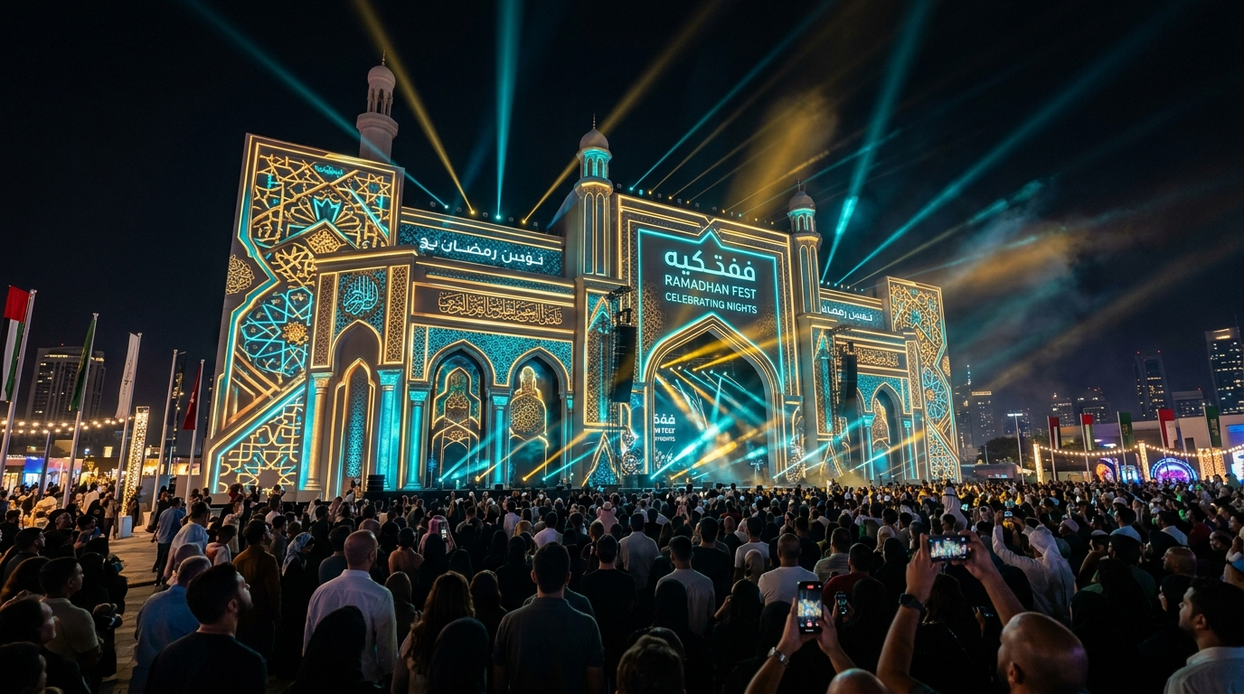
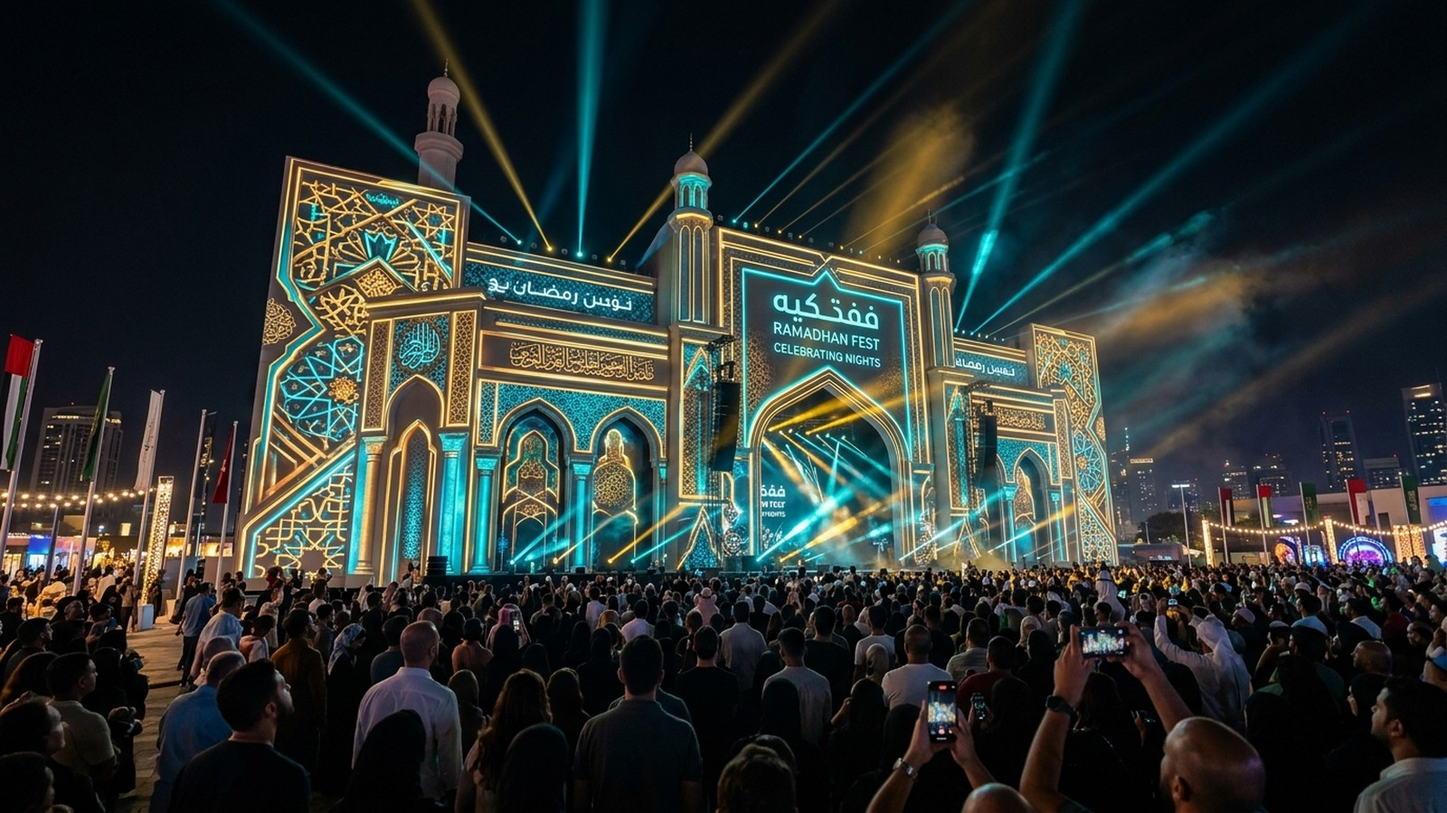
feat(portfolio): perbarui JABAT 3, generate cover Grand Doorprize, pisahkan Perpustakaan Expo 2023 & Festival Literasi 2025/2026, serta sesuaikan FAKKIE Ramadhan Fest

Changed region(s): [[0.5625, 0.4375, 0.5938, 0.4688], [0.5312, 0.3125, 0.5625, 0.3438], [0.4062, 0.4375, 0.4375, 0.4688]]

diff --git a/src/data/initialData.ts b/src/data/initialData.ts
@@ -469,18 +469,34 @@ export const initialProjects: Project[] = [
     summary: "Aplikasi animasi pengundian door-prize panggung real-time beresolusi tinggi dengan algoritma angka acak kriptografis transparan untuk event akbar dan siaran langsung.",
     clientDisplayName: "Penyelenggara Event & Media Partner",
     year: "2025 - 2026",
-    heroImage: "/portfolio/undian-desktop.webp",
-    thumbnail: "/portfolio/undian-desktop.webp",
+    heroImage: "/portfolio/covers/grand-doorprize-stage-system-cover-1600x900.webp",
+    thumbnail: "/portfolio/covers/grand-doorprize-stage-system-cover-1600x900.webp",
     mobileImage: "/portfolio/undian-mobile.webp",
-    services: ["Stage Visual Software", "Cryptographic Randomizer", "Ultra-Wide Screen Optimization", "Live Event Engineering"],
+    role: "Aplikasi Undian Kriptografis Layar Lebar",
+    sourceCredit: "Arsip Teknologi Panggung & Rekayasa Perangkat Lunak MAROA",
+    rightsStatus: "Karya Sistem & Visual Panggung Orisinal MAROA",
+    services: [
+      "Stage Visual Software",
+      "Cryptographic Randomizer",
+      "Ultra-Wide Screen Optimization",
+      "Live Event Engineering"
+    ],
     challenge: "Menyelenggarakan sesi penarikan door-prize berhadiah mobil, motor, dan ratusan hadiah elektronik pada event berskala ribuan peserta yang menuntut keadilan mutlak, transparansi tanpa kecurigaan manipulasi, serta visualisasi panggung yang dramatis dan mendebarkan.",
     approach: "Mengembangkan aplikasi web stage-ready dengan engine randomizer angka acak berbasis kriptografi yang menghasilkan animasi putaran angka berkecepatan tinggi dengan efek pendaran cahaya (glow effect) yang memukau di layar videotron LED panggung utama.",
     execution: "Membangun panel manajemen hadiah berjenjang (Grand Prize Mobil, Motor, Elektronik); sistem import basis data nomor kupon/peserta; panel kontrol tombol operator (Mulai Undian, Kunci Pemenang); filter pencegahan dobel menang; serta modul export rekapitulasi Berita Acara resmi.",
     outcome: "Menghidupkan atmosfer kemeriahan puncak event, memikat ribuan tatap mata penonton di depan panggung tanpa keraguan kecurangan, dan mempermudah saksi notaris serta kepolisian menandatangani keabsahan undian.",
     gallery: [
+      "/portfolio/covers/grand-doorprize-stage-system-cover-1600x900.webp",
+      "/portfolio/gallery/grand-doorprize-stage-system-1600x900.webp",
       "/portfolio/undian-desktop.webp",
       "/portfolio/undian-mobile.webp"
     ],
+    galleryCaptions: {
+      "/portfolio/covers/grand-doorprize-stage-system-cover-1600x900.webp": "Visualisasi Panggung — Display Sistem Undian Layar Lengkung Videotron LED",
+      "/portfolio/gallery/grand-doorprize-stage-system-1600x900.webp": "Visual Panggung Resolusi Tinggi — Animasi Pengundian Grand Prize",
+      "/portfolio/undian-desktop.webp": "Antarmuka Dashboard Operator — Panel Kendali Pengundian Kriptografis",
+      "/portfolio/undian-mobile.webp": "Antarmuka Responsif Mobile — Verifikasi Nomor Kupon Pemenang"
+    },
     metrics: [
       { label: "Algoritma Acak", value: "100% Kripto Adil" },
       { label: "Output Tampilan", value: "Videotron Ultra-Wide LED" },
@@ -696,85 +712,197 @@ export const initialProjects: Project[] = [
   },
   {
     id: "perpustakaan-expo-pinrang",
-    slug: "perpustakaan-expo-festival-literasi-pinrang-event-organizer",
-    title: "Perpustakaan Expo & Festival Literasi Pinrang — Manajemen Penyelenggaraan Event Organizer (EO) & Ekosistem Edukasi Publik",
+    slug: "perpustakaan-expo-2023-kabupaten-pinrang",
+    title: "Perpustakaan Expo 2023 Kabupaten Pinrang — Pameran Literasi & Grand Final Duta Baca",
     category: "events",
-    summary: "Manajemen acara terpadu (Event Organizer) festival literasi daerah mencakup kurasi panggung outdoor, stan pameran interaktif sekolah, talkshow kepenulisan, dan aktivasi ekonomi kreatif di Lasinrang Park.",
+    summary: "Penyelenggaraan pameran perpustakaan terpadu, Grand Final Duta Baca Kabupaten Pinrang, cerdas cermat, stand pameran terbaik, dan pentas seni budaya di Halaman Kantor Dinas Perpustakaan dan Kearsipan.",
     clientDisplayName: "Dinas Perpustakaan dan Kearsipan Kabupaten Pinrang",
-    year: "2026",
-    heroImage: "/portfolio/events/perpustakaan-expo.jpg",
-    thumbnail: "/portfolio/events/perpustakaan-expo.jpg",
+    year: "2023",
+    heroImage: "/portfolio/covers/perpustakaan-expo-pinrang-2023-cover-1600x900.webp",
+    thumbnail: "/portfolio/covers/perpustakaan-expo-pinrang-2023-cover-1600x900.webp",
+    role: "Event Organizer, Tata Panggung Pameran & Stan Pustaka",
+    sourceCredit: "Dinas Perpustakaan dan Kearsipan Kabupaten Pinrang",
+    rightsStatus: "Dokumentasi Publikasi Resmi Pemerintah Daerah",
     services: [
       "Manajemen Event Organizer (EO) Terpadu",
-      "Spatial & Exhibition Booth Layout",
-      "Tata Panggung Utama Outdoor & Videotron",
-      "Kurasi Pengisi Acara & Rundown Multi-Hari",
-      "Dokumentasi & Live Media Production"
+      "Tata Panggung & Stand Pameran",
+      "Lomba Grand Final Duta Baca",
+      "Pentas Seni Budaya & Pameran UMKM"
     ],
-    challenge: "Mengubah persepsi konvensional tentang perpustakaan menjadi festival publik terbuka yang berjiwa muda, interaktif, dan inklusif di Lasinrang Park dengan puluhan tenant sekolah, penerbit, komunitas seni, dan UMKM dalam rangkaian kegiatan multi-hari menyambut HUT RI.",
-    approach: "Mengadopsi model festival kota modern dengan membagi ruang menjadi Literacy Main Stage, Modular Exhibition Booths, Interactive Creative Workshop Corner, dan Local Culinary Area yang tertata higienis dan nyaman.",
-    execution: "Mengelola perizinan dan tata kelola massa, konstruksi panggung beratap melengkung dengan layar LED videotron interaktif, tata pencahayaan hangat senja hingga malam, serta manajemen acara talkshow bedah buku dan lomba mendongeng anak.",
-    outcome: "Menarik ribuan pelajar, pegiat literasi, pendidik, dan masyarakat umum, meningkatkan keterlibatan publik terhadap fasilitas perpustakaan daerah, serta membuka ruang promosi yang sukses bagi UMKM lokal.",
+    challenge: "Menata pameran literasi multi-kegiatan di halaman kantor dinas dengan menyatukan lomba kecerdasan pelajar, pameran buku, seleksi duta baca daerah, dan panggung pertunjukan dalam satu kesatuan alur yang rapi.",
+    approach: "Merancang zonasi panggung utama semi-outdoor, stan modular pameran perpustakaan sekolah/kecamatan, dan area bazar UMKM dengan alur kunjungan terstruktur.",
+    execution: "Menyiapkan instalasi panggung penghargaan, sistem tata suara, backdrop panggung resmi, dan tata kelola rundown acara selama 6 hari pelaksanaan (14-19 November 2023).",
+    outcome: "Perpustakaan Expo 2023 sukses besar menggerakkan antusiasme pelajar dan masyarakat, serta melahirkan Duta Baca inspiratif bagi Kabupaten Pinrang.",
     gallery: [
-      "/portfolio/events/perpustakaan-expo.jpg",
-      "/portfolio/events/tpn-guru-belajar.png"
+      "/portfolio/covers/perpustakaan-expo-pinrang-2023-cover-1600x900.webp",
+      "/portfolio/gallery/perpustakaan-expo-pinrang-2023-poster-1600x900.webp"
     ],
+    galleryCaptions: {
+      "/portfolio/covers/perpustakaan-expo-pinrang-2023-cover-1600x900.webp": "Master Artwork Poster 16:9 — Perpustakaan Expo 2023 Kabupaten Pinrang",
+      "/portfolio/gallery/perpustakaan-expo-pinrang-2023-poster-1600x900.webp": "Poster Resmi Informasi Acara — Pameran Perpustakaan & Grand Final Duta Baca"
+    },
     metrics: [
-      { label: "Durasi Festival", value: "5 Hari Pelaksanaan" },
-      { label: "Lokasi", value: "Lasinrang Park Pinrang" },
-      { label: "Keterlibatan", value: "Sekolah, Komunitas & UMKM" }
+      { label: "Peran MAROA", value: "Event Organizer & Stage" },
+      { label: "Waktu Acara", value: "14 - 19 November 2023" },
+      { label: "Lokasi", value: "Halaman Dinas Perpustakaan" }
     ],
     features: [
       {
-        title: "Perencanaan & Eksekusi Lapangan Menyeluruh",
-        description: "Pengendalian alur acara terstruktur mulai dari opening ceremony resmi, rundown teknis pengisi panggung, hingga evaluasi harian tim EO.",
+        title: "Pameran Perpustakaan Sekolah & Kecamatan",
+        description: "Menghadirkan stan pameran inovasi layanan buku dan pojok baca dari berbagai lembaga pendidikan.",
       },
       {
-        title: "Konstruksi Panggung Utama Berlayar Videotron Lengkung",
-        description: "Panggung outdoor megah dengan videotron LED melengkung (curved display) menampilkan konten edukasi ramah anak.",
+        title: "Grand Final Pemilihan Duta Baca Pinrang",
+        description: "Panggung unjuk bakat, orasi literasi, dan penobatan Duta Baca Kabupaten Pinrang 2023.",
       },
       {
-        title: "Tata Kelola Stan Pameran Sekolah & Penerbit",
-        description: "Penyusunan stan pameran modular bertema kayu hangat dan pencahayaan estetik untuk menampilkan karya literasi unggulan siswa.",
+        title: "Pentas Seni Tradisional & Pameran UMKM",
+        description: "Aktivasi panggung pentas seni pelajar serta pemberdayaan produk kuliner UMKM lokal.",
+      }
+    ],
+    isFeatured: false,
+    isPublished: true,
+    publishedAt: "2023-11-19",
+    seoTitle: "Perpustakaan Expo 2023 Kabupaten Pinrang — Event Organizer | MAROA",
+    seoDescription: "Penyelenggaraan Perpustakaan Expo 2023 dan Grand Final Duta Baca Kabupaten Pinrang oleh MAROA.",
+  },
+  {
+    id: "festival-literasi-pinrang-2025",
+    slug: "festival-literasi-pinrang-2025-multiliterasi-inklusif",
+    title: "Festival Literasi Pinrang 2025 — Multiliterasi Inklusif & Panggung Edukasi Budaya",
+    category: "events",
+    summary: "Penyelenggaraan festival literasi daerah berskala besar bekerjasama dengan Perpustakaan Nasional RI bertema 'Multiliterasi Inklusif, Bergerak Bersama Membangun Pinrang Berbudaya'.",
+    clientDisplayName: "Dinas Perpustakaan dan Kearsipan Kab. Pinrang & Perpusnas RI",
+    year: "2025",
+    heroImage: "/portfolio/covers/festival-literasi-pinrang-2025-cover-1600x900.webp",
+    thumbnail: "/portfolio/covers/festival-literasi-pinrang-2025-cover-1600x900.webp",
+    role: "Manajemen Acara & Tata Multimedia Panggung",
+    sourceCredit: "Dinas Perpustakaan dan Kearsipan Kabupaten Pinrang & Perpusnas RI",
+    rightsStatus: "Dokumentasi & Desain Publikasi Resmi Acara",
+    services: [
+      "Event Management & Production",
+      "Stage Multimedia Screen",
+      "Perpusnas RI Collaboration",
+      "Cultural & Literacy Showcase"
+    ],
+    challenge: "Menghadirkan festival literasi komprehensif yang mengintegrasikan agenda nasional Perpustakaan Nasional RI dengan pelestarian budaya lokal Bumi Lasinrang.",
+    approach: "Memadukan visual panggung bertema arsitektur budaya Pinrang, instalasi perpustakaan keliling, dan seminar multiliterasi bagi lintas generasi.",
+    execution: "Menyiapkan panggung utama, multimedia display siaran langsung, sesi gelar wicara bersama Bunda Literasi, dan malam penganugerahan pegiat literasi daerah.",
+    outcome: "Memperkuat indeks pembangunan literasi masyarakat (IPLM) Kabupaten Pinrang dan mendapat apresiasi pimpinan Perpustakaan Nasional.",
+    gallery: [
+      "/portfolio/covers/festival-literasi-pinrang-2025-cover-1600x900.webp",
+      "/portfolio/gallery/festival-literasi-pinrang-2025-banner-1600x900.webp"
+    ],
+    galleryCaptions: {
+      "/portfolio/covers/festival-literasi-pinrang-2025-cover-1600x900.webp": "Master Visual 16:9 — Festival Literasi Pinrang 2025 Multiliterasi Inklusif",
+      "/portfolio/gallery/festival-literasi-pinrang-2025-banner-1600x900.webp": "Banner Resmi Penyelenggaraan — Kerjasama Dispusip Pinrang & Perpusnas RI"
+    },
+    metrics: [
+      { label: "Peran MAROA", value: "Event Management & Multimedia" },
+      { label: "Waktu Acara", value: "10 - 14 September 2025" },
+      { label: "Kemitraan", value: "Perpustakaan Nasional RI" }
+    ],
+    features: [
+      {
+        title: "Seminar Multiliterasi Inklusif Nasional",
+        description: "Diskusi panel bersama narasumber Perpustakaan Nasional RI dan tokoh literasi Sulawesi Selatan.",
       },
       {
-        title: "Manajemen Talkshow Inspiratif & Bedah Buku",
-        description: "Fasilitasi sesi diskusi bersama penulis nasional, tokoh literasi perempuan, dan praktisi pendidikan daerah.",
-      },
-      {
-        title: "Pemberdayaan Area Kuliner & UMKM Kreatif",
-        description: "Penataan stan makanan dan kerajinan khas Pinrang guna mendukung perputaran ekonomi kreatif selama festival berlangsung.",
-      },
+        title: "Panggung Apresiasi Pegiat Literasi",
+        description: "Penghargaan bagi pengelola pojok baca desa, taman bacaan masyarakat, dan pegiat literasi disabilitas.",
+      }
     ],
     isFeatured: true,
     isPublished: true,
-    publishedAt: "2026-08-11",
-    seoTitle: "Perpustakaan Expo & Festival Literasi Pinrang — Event Organizer | MAROA",
-    seoDescription: "Penyelenggaraan terpadu Event Organizer Perpustakaan Expo dan Festival Literasi Kabupaten Pinrang oleh MAROA.",
+    publishedAt: "2025-09-14",
+    seoTitle: "Festival Literasi Pinrang 2025 — Multiliterasi Inklusif | MAROA",
+    seoDescription: "Penyelenggaraan Festival Literasi Pinrang 2025 kerjasama Perpustakaan Nasional RI oleh MAROA.",
+  },
+  {
+    id: "festival-literasi-pinrang-2026",
+    slug: "festival-literasi-pinrang-2026-lasinrang-merdeka-fest",
+    title: "Festival Literasi Pinrang 2026 — Lasinrang Merdeka Fest (HUT Ke-81 RI)",
+    category: "events",
+    summary: "Manajemen festival literasi ruang publik Lasinrang Merdeka Fest bertema 'Literasi Menggerakkan, Seni Menyatukan, UMKM Menguatkan' dalam rangka Pekan Festival HUT Ke-81 Kemerdekaan RI di Lasinrang Park.",
+    clientDisplayName: "Dinas Perpustakaan dan Kearsipan Kabupaten Pinrang",
+    year: "2026",
+    heroImage: "/portfolio/covers/festival-literasi-pinrang-2026-cover-1600x900.webp",
+    thumbnail: "/portfolio/covers/festival-literasi-pinrang-2026-cover-1600x900.webp",
+    role: "Event Organizer, Panggung Seni Videotron & Visual Branding",
+    sourceCredit: "Dinas Perpustakaan dan Kearsipan Kabupaten Pinrang",
+    rightsStatus: "Arsip Kreatif & Manajemen Acara MAROA",
+    services: [
+      "Event Organizer (EO) Terpadu",
+      "Stage Videotron & Lighting",
+      "Lasinrang Merdeka Fest Branding",
+      "UMKM & Creative Booth Activation"
+    ],
+    challenge: "Mentransformasikan ruang terbuka hijau Lasinrang Park menjadi episentrum festival kemerdekaan yang memadukan buku, pentas seni, dan bazaar UMKM kuliner kreatif secara berdaya saing tinggi.",
+    approach: "Merancang visual branding ikonik pejuang Lasinrang memegang buku diapit bendera pusaka, dipadu panggung konser seni terbuka dan tata cahaya malam hari.",
+    execution: "Menyelenggarakan rangkaian festival 5 hari (11-15 Agustus 2026), mengoperasikan videotron panggung seni budaya, dan memfasilitasi puluhan stan UMKM.",
+    outcome: "Menjadi magnet perayaan HUT RI ke-81 terfavorit di Kabupaten Pinrang dengan puluhan ribu kunjungan warga dari berbagai daerah.",
+    gallery: [
+      "/portfolio/covers/festival-literasi-pinrang-2026-cover-1600x900.webp",
+      "/portfolio/gallery/festival-literasi-pinrang-2026-banner-1600x900.webp"
+    ],
+    galleryCaptions: {
+      "/portfolio/covers/festival-literasi-pinrang-2026-cover-1600x900.webp": "Master Visual 16:9 — Lasinrang Merdeka Fest Festival Literasi 2026",
+      "/portfolio/gallery/festival-literasi-pinrang-2026-banner-1600x900.webp": "Identitas Resmi Acara — Lambang Lasinrang Merdeka Fest HUT Ke-81 RI"
+    },
+    metrics: [
+      { label: "Peran MAROA", value: "Event Organizer & Videotron" },
+      { label: "Waktu Acara", value: "11 - 15 Agustus 2026" },
+      { label: "Lokasi", value: "Lasinrang Park, Pinrang" }
+    ],
+    features: [
+      {
+        title: "Pentas Seni Terbuka Lasinrang Merdeka Fest",
+        description: "Panggung musik, tari kolosal kemerdekaan, dan teater literasi siswa di bawah langit malam kota.",
+      },
+      {
+        title: "Ekosistem Pemberdayaan UMKM Pinrang",
+        description: "Zonasi puluhan tenant kuliner dan cinderamata kreatif lokal yang tertata rapi dan ramai pengunjung.",
+      }
+    ],
+    isFeatured: true,
+    isPublished: true,
+    publishedAt: "2026-08-15",
+    seoTitle: "Festival Literasi Pinrang 2026 — Lasinrang Merdeka Fest | MAROA",
+    seoDescription: "Penyelenggaraan Lasinrang Merdeka Fest Festival Literasi Pinrang 2026 di Lasinrang Park oleh MAROA.",
   },
   {
     id: "fakkie-ramadhan-fest",
     slug: "fakkie-ramadhan-fest-multimedia-video-mapping",
-    title: "FAKKIE Ramadhan Fest — Produksi Konten Desain Multimedia Panggung & Video Mapping Arsitektural Religi",
+    title: "FAKKIE Ramadhan Fest 2026 — Desain Multimedia, Panggung Seni & Video Mapping Arsitektural",
     category: "multimedia",
-    summary: "Penerapan proyeksi video mapping 3D berarsitektur Islami dan konten multimedia panggung pada festival semarak Ramadan dan festival seni musik patrol kebanggaan masyarakat Tiroang.",
-    clientDisplayName: "Panitia FAKKIE Ramadhan Fest & Karang Taruna Kelurahan Fakkie",
+    summary: "Produksi materi komunikasi visual promosi opening ceremony, bintang tamu MC, serta proyeksi video mapping arsitektural 3D religi pada festival patrol sahur FAKKIE Ramadhan Fest by Eighty Seven.",
+    clientDisplayName: "Panitia FAKKIE Ramadhan Fest by Eighty Seven & Pemuda Alecalimpo",
     year: "2026",
-    heroImage: "/portfolio/events/fakkie-video-mapping.jpg",
-    thumbnail: "/portfolio/events/fakkie-video-mapping.jpg",
+    heroImage: "/portfolio/covers/fakkie-ramadhan-fest-2026-cover-1600x900.webp",
+    thumbnail: "/portfolio/covers/fakkie-ramadhan-fest-2026-cover-1600x900.webp",
+    role: "Desain Multimedia, Video Mapping 3D & Visual Panggung",
+    sourceCredit: "Panitia FAKKIE Ramadhan Fest by Eighty Seven & Studio MAROA",
+    rightsStatus: "Karya Desain Poster & Dokumentasi Video Mapping MAROA",
     services: [
       "Arsitektural Video Mapping 3D",
-      "Produksi Konten Multimedia Panggung",
-      "Synchronized Light & Sound System",
-      "Desain Visual Panggung Seni Musik Patrol"
+      "Opening Ceremony Key Visual Design",
+      "Guest Star MC Promo Assets",
+      "Synchronized Stage Light & Sound System"
     ],
-    challenge: "Membawa tradisi seni patrol sahur masyarakat Tiroang ke panggung pertunjukan modern yang spektakuler tanpa mengaburkan kesakralan, kekhusyukan, dan kehangatan nilai-nilai bulan suci Ramadan.",
-    approach: "Menerapkan teknologi proyeksi video mapping arsitektural 3D pada fasad panggung utama festival, memadukan ornamen kaligrafi geometri Islam modern, pendaran laser emas-toska, dan ketukan perkusi patrol khas Sulawesi Selatan.",
-    execution: "Melakukan pemetaan proyeksi permukaan 3D (surface mapping) pada panggung gerbang menara, memprogram animasi transisi cahaya yang tersinkronisasi dengan tabuhan perkusi kelompok patrol, serta memandu operator multimedia selama malam puncak perayaan.",
-    outcome: "Menjadi suguhan pertunjukan yang sangat viral dan spektakuler di media sosial lokal, dihadiri ribuan warga dari berbagai kecamatan, dan menorehkan standar baru pemanfaatan teknologi video mapping untuk event religi berbasis komunitas di Pinrang.",
+    challenge: "Menggabungkan tradisi seni musik patrol sahur masyarakat Tiroang dengan suguhan visual panggung modern yang megah, menampilkan bintang tamu MC kondang, serta atraksi video mapping arsitektural di depan Masjid Mustaqim.",
+    approach: "Merancang paket desain grafis promosi pembuka berwarna merah membara yang energetik, dipadu pemetaan proyeksi 3D (video mapping) pada fasad bangunan panggung pementasan.",
+    execution: "Membuat master poster 16:9 non-destruktif penayangan opening ceremony 26 Februari 2026 dan memproyeksikan video mapping 3D animasi kaligrafi yang tersinkronisasi dengan tabuhan perkusi patrol Bentrok Family.",
+    outcome: "Malam pembukaan festival dipadati ribuan warga, viral di media sosial, dan menorehkan standar baru pertunjukan religi berbasis komunitas di Sulawesi Selatan.",
     gallery: [
-      "/portfolio/events/fakkie-video-mapping.jpg"
+      "/portfolio/covers/fakkie-ramadhan-fest-2026-cover-1600x900.webp",
+      "/portfolio/gallery/fakkie-ramadhan-fest-live-video-mapping-1600x900.webp",
+      "/portfolio/gallery/fakkie-ramadhan-fest-2026-poster-1600x900.webp"
     ],
+    galleryCaptions: {
+      "/portfolio/covers/fakkie-ramadhan-fest-2026-cover-1600x900.webp": "Master Artwork Poster 16:9 — Opening Ceremony FAKKIE Ramadhan Fest 2026",
+      "/portfolio/gallery/fakkie-ramadhan-fest-live-video-mapping-1600x900.webp": "Dokumentasi Lapangan — Proyeksi Video Mapping Arsitektural 3D Religi di Panggung Utama",
+      "/portfolio/gallery/fakkie-ramadhan-fest-2026-poster-1600x900.webp": "Materi Publikasi Resmi — Bintang Tamu MC Syukri Gazali (Chuke) & Syaiful Muharram (Ambonai)"
+    },
     metrics: [
       { label: "Teknologi Visual", value: "3D Projection Mapping" },
       { label: "Peserta Lomba", value: "Puluhan Grup Patrol" },
@@ -926,30 +1054,38 @@ export const initialProjects: Project[] = [
   {
     id: "jabat-3-trail-adventure",
     slug: "jabat-3-jelajah-alam-batas-produksi-konten-desain-multimedia",
-    title: "Jelajah Alam Batas (JABAT 3) Pinrang–Enrekang — Produksi Konten Desain Multimedia & Stage Visual Extreme Sport",
+    title: "Reborn Trail Pinrang JABAT Part #3 — Motion Graphic & LED Videotron Extreme Sport",
     category: "multimedia",
-    summary: "Produksi konten visual panggung gerbang start-finish, motion graphics countdown ekstrem, dan multimedia malam apresiasi untuk ajang trail adventure akbar perbatasan Pinrang - Enrekang.",
-    clientDisplayName: "Panitia JABAT 3 & Komunitas Trail Adventure Indonesia",
+    summary: "Produksi motion graphic visual panggung, operasional layar LED videotron gerbang start-finish Stadion Bau Massepe, dan multimedia panggung malam apresiasi One Day Trail Adventure Jelajah Alam Batas (JABAT Part #3) Pinrang–Enrekang.",
+    clientDisplayName: "Panitia Reborn Trail Pinrang JABAT Part #3 & IMI Pengcab Pinrang",
     year: "2026",
-    heroImage: "/portfolio/events/tyro1-wgb.jpg",
-    thumbnail: "/portfolio/events/tyro1-wgb.jpg",
+    heroImage: "/portfolio/covers/jabat-3-trail-adventure-2026-cover-1600x900.webp",
+    thumbnail: "/portfolio/covers/jabat-3-trail-adventure-2026-cover-1600x900.webp",
+    role: "Motion Graphic dan LED Videotron",
+    sourceCredit: "Panitia Reborn Trail Pinrang JABAT Part #3 & IMI Pengcab Pinrang",
+    rightsStatus: "Karya Desain Motion & Dokumentasi Resmi JABAT 3",
     services: [
-      "Produksi Konten Desain Multimedia",
-      "Stage Visual Extreme Sport",
-      "Opening Countdown Motion Graphics",
-      "Visual Identity Gerbang Start & Finish"
+      "Motion Graphics Design",
+      "LED Videotron Stage Display",
+      "Extreme Sport Visual Production",
+      "Start-Finish Gate Multimedia"
     ],
-    challenge: "Menciptakan atmosfer panggung dan visual sirkuit yang memacu adrenalin bagi ribuan peserta offroad dari berbagai provinsi yang melintasi jalur ekstrem perbukitan batas Pinrang-Enrekang.",
-    approach: "Mengusung estetika visual bertema rugged adventure dan industrial grunge yang tangguh, memadukan elemen topografi pegunungan, semburan lumpur, dan visual maskot adventure berani.",
-    execution: "Memproduksi animasi hitung mundur pelepasan rider pada layar LED panggung gerbang start, visual live entertainment panggung malam apresiasi, serta branding visual trofi dan seragam kejuaraan.",
-    outcome: "Event JABAT 3 tampil sangat berkelas dan terorganisir rapi secara visual, mendapat sambutan luar biasa dari ribuan rider nasional dan apresiasi pemerintah daerah setempat.",
+    challenge: "Menghadirkan tata visual dinamis dan operasional layar videotron luar ruang berkontras tinggi di Stadion Bau Massepe yang mampu memandu pelepasan ribuan offroader serta menayangkan leaderboard hadiah 9 unit motor Honda Revo.",
+    approach: "Merancang rangkaian motion graphic berenergi tinggi bertema petualangan ekstrem dengan tipografi tegas, efek pendaran oranye-hitam khas Reborn Trail, dan visualisasi rute jalur perbatasan Pinrang-Enrekang.",
+    execution: "Mengoperasikan videotron panggung utama dan gerbang start line, memutar countdown animasi pelepasan kloter rider, serta memvisualisasikan penyerahan grand prize 9 unit motor Honda Revo dan uang tunai 5 rider finish tercepat.",
+    outcome: "Pelaksanaan One Day Trail Adventure JABAT Part #3 berlangsung semarak, tertib, dan megah, menuai apresiasi tinggi dari ribuan rider nusantara serta sponsor resmi daerah.",
     gallery: [
-      "/portfolio/events/tyro1-wgb.jpg"
+      "/portfolio/covers/jabat-3-trail-adventure-2026-cover-1600x900.webp",
+      "/portfolio/gallery/jabat-3-trail-adventure-2026-banner-1600x900.webp"
     ],
+    galleryCaptions: {
+      "/portfolio/covers/jabat-3-trail-adventure-2026-cover-1600x900.webp": "Master Banner Visual 16:9 — Reborn Trail Pinrang JABAT Part #3 (Pinrang-Enrekang)",
+      "/portfolio/gallery/jabat-3-trail-adventure-2026-banner-1600x900.webp": "Visual Resmi Informasi Lomba — Grand Prize 9 Unit Honda Revo & Hadiah Tunai"
+    },
     metrics: [
-      { label: "Peserta Rider", value: "Ribuan Offroader Nusantara" },
-      { label: "Jalur Lintasan", value: "Batas Pinrang - Enrekang" },
-      { label: "Panggung Utama", value: "LED Screen Extreme Stage" }
+      { label: "Peran MAROA", value: "Motion Graphic dan LED Videotron" },
+      { label: "Grand Prize", value: "9 Unit Honda Revo" },
+      { label: "Start - Finish", value: "Stadion Bau Massepe Pinrang" }
     ],
     features: [
       {
@@ -957,23 +1093,23 @@ export const initialProjects: Project[] = [
         description: "Animasi visual dinamis yang menggelegar di layar LED gerbang pelepasan untuk menyemangati setiap kloter rider yang melaju.",
       },
       {
-        title: "Stage Visual LED Malam Hiburan & Apresiasi",
+        title: "Stage Visual LED Videotron Malam Apresiasi",
         description: "Latar visual panggung konser musik dan malam ramah tamah para pembalap dengan efek visual modern bertenaga tinggi.",
       },
       {
-        title: "Visualisasi Peta Topografi Jalur Ekstrem",
-        description: "Peta rute jalur petualangan yang dikemas grafis informatif menampilkan tanjakan curam dan titik pos pertolongan.",
+        title: "Visualisasi Rute Jalur Perbatasan Pinrang - Enrekang",
+        description: "Peta grafis informatif menampilkan tanjakan ekstrem jalur petualangan dan titik pos pertolongan.",
       },
       {
-        title: "Sistem Penayangan Mitra Sponsor & Live Recap",
-        description: "Format rotasi logo sponsor resmi dan cuplikan langsung aksi para rider di medan lumpur yang ditayangkan ke layar panggung.",
+        title: "Penayangan Interaktif Hadiah 9 Unit Honda Revo",
+        description: "Format penayangan pemenang undian hadiah motor dan bonus rider tercepat pada layar panggung videotron.",
       },
     ],
-    isFeatured: false,
+    isFeatured: true,
     isPublished: true,
     publishedAt: "2026-04-25",
-    seoTitle: "JABAT 3 Jelajah Alam Batas — Desain Multimedia & Stage Visual | MAROA",
-    seoDescription: "Produksi konten desain multimedia dan visual panggung kejuaraan offroad trail adventure JABAT 3 Pinrang-Enrekang oleh MAROA.",
+    seoTitle: "Reborn Trail Pinrang JABAT Part #3 — Motion Graphic & LED Videotron | MAROA",
+    seoDescription: "Produksi motion graphic dan operasional LED videotron ajang trail adventure JABAT Part #3 Pinrang-Enrekang oleh MAROA.",
   },
   {
     id: "wisuda-icp-senat",
